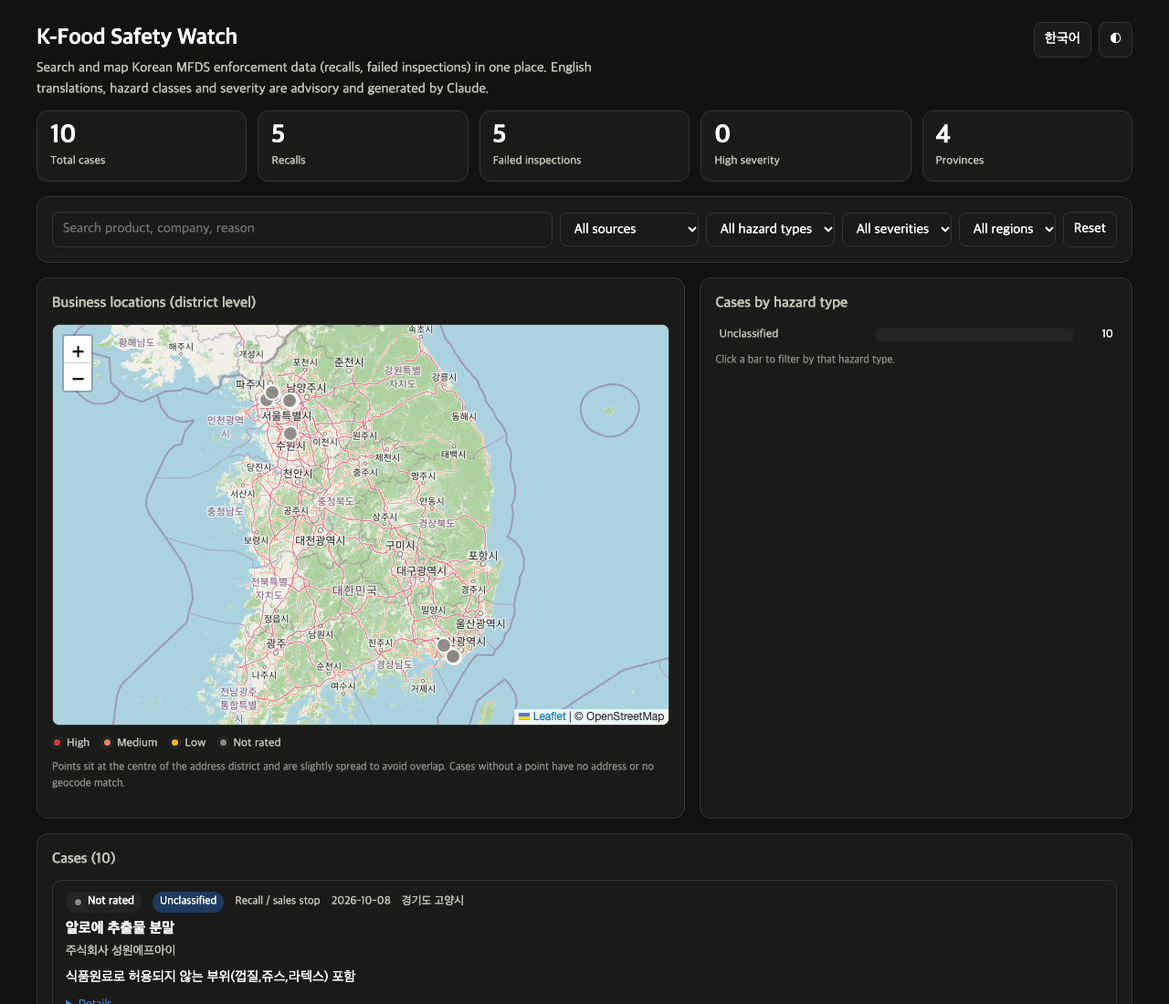
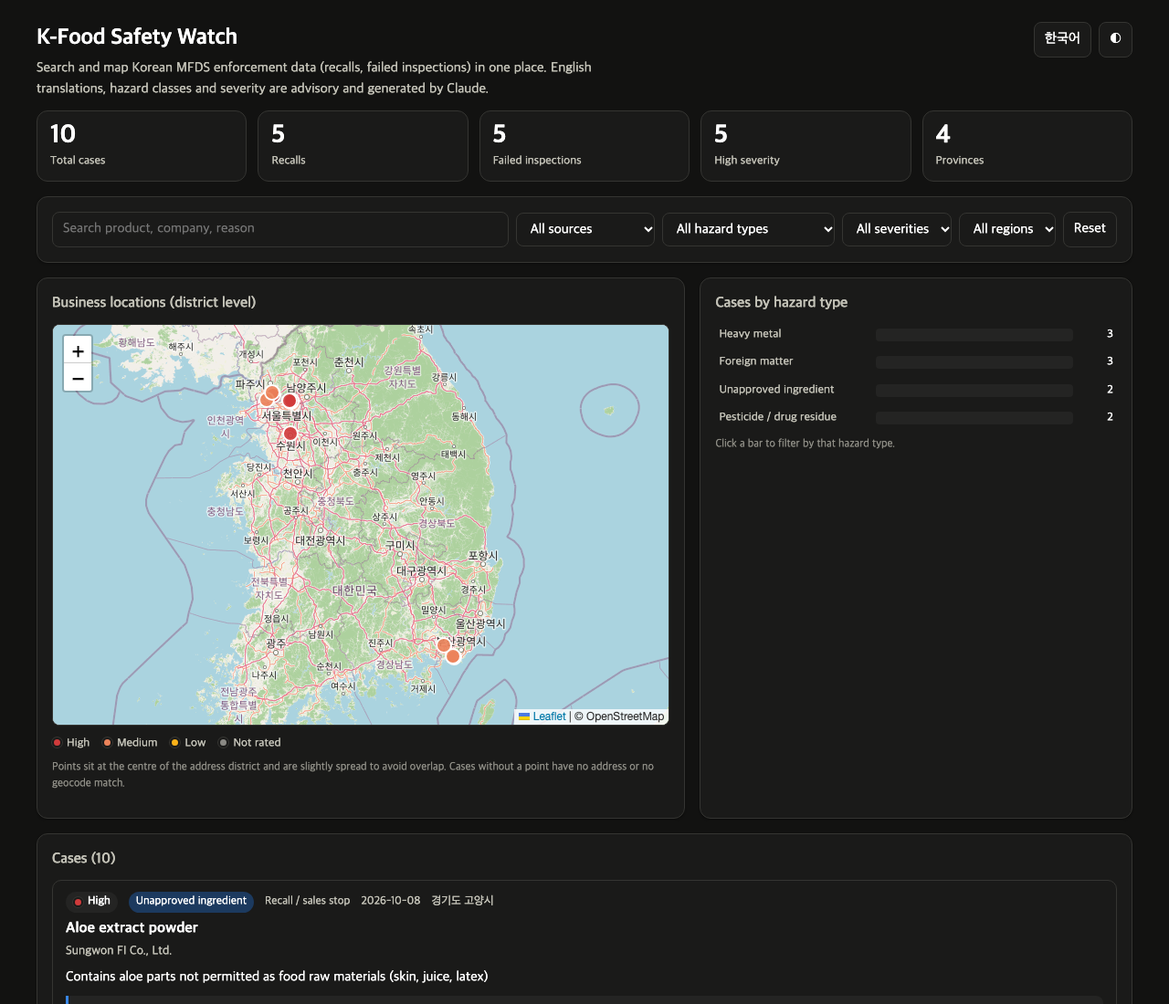
Add Claude enrichment results for the sample records
All ten sample records now carry English translations, hazard class,
severity with rationale, and bilingual summaries (claude-opus-5-5,
about 7k tokens). Screenshots refreshed. The .env loader now warns
when a line lacks the NAME=value form.

diff --git a/output/index.html b/output/index.html
@@ -147,7 +147,7 @@ footer a { color: var(--accent); }
 </main>
 <footer id="foot"></footer>
 
-<script>const DATA = {"generated": "2026-10-09T10:44+09:00", "services": {"I0490": {"kind": "recall", "name_ko": "회수·판매중지 정보", "name_en": "Recalls and sales suspensions"}, "I2620": {"kind": "inspection", "name_ko": "검사부적합(국내)", "name_en": "Domestic inspection non-conformities"}}, "meta": {"key_mode": "sample", "model": null, "enriched_count": 0}, "records": [{"id": "I0490-3000235627", "source": "recall", "service": "I0490", "product_ko": "알로에 추출물 분말", "company_ko": "주식회사 성원에프아이", "address_ko": "경기도 고양시 일산동구 문봉길 6-37 (문봉동) G동", "category_ko": "기타가공품", "date": "2026-10-08", "mfg_date": "2026-08-14", "expiry": "2031-08-13", "license_no": "20050039092", "report_no": "", "barcode": "", "unit": "-", "grade": "1등급", "method_ko": "", "image": "", "test_item_ko": "", "test_result": "", "standard": "", "agency_ko": "", "reason_ko": "식품원료로 허용되지 않는 부위(껍질,쥬스,라텍스) 포함", "sido": "경기도", "sigungu": "고양시", "lat": 37.6581862, "lon": 126.8319452, "product_en": "", "company_en": "", "reason_en": "", "summary_ko": "", "summary_en": "", "hazard": "unclassified", "severity": "unknown", "severity_why_en": "", "severity_why_ko": "", "enriched": false}, {"id": "I0490-3000235630", "source": "recall", "service": "I0490", "product_ko": "알로에 추출물분말", "company_ko": "주식회사 태성", "address_ko": "경기도 수원시 권선구 고색로66번길 29(고색동) 2층", "category_ko": "기타가공품", "date": "2026-10-08", "mfg_date": "2026-08-21", "expiry": "2031-08-20", "license_no": "20180007695", "report_no": "", "barcode": "", "unit": "-", "grade": "1등급", "method_ko": "", "image": "", "test_item_ko": "", "test_result": "", "standard": "", "agency_ko": "", "reason_ko": "식품원료로 허용되지 않는 부위(껍질,쥬스,라텍스) 포함", "sido": "경기도", "sigungu": "수원시", "lat": 37.2633325, "lon": 127.0287472, "product_en": "", "company_en": "", "reason_en": "", "summary_ko": "", "summary_en": "", "hazard": "unclassified", "severity": "unknown", "severity_why_en": "", "severity_why_ko": "", "enriched": false}, {"id": "I0490-3000235613", "source": "recall", "service": "I0490", "product_ko": "황새치 S/T 2호", "company_ko": "(주)오성씨푸드", "address_ko": "경기도 김포시 하성면 월하로589번길 52-10", "category_ko": "기타 수산물가공품", "date": "2026-10-08", "mfg_date": "2026-01-15", "expiry": "", "license_no": "20140362068", "report_no": "2014036206842", "barcode": "", "unit": "10kg", "grade": "2등급", "method_ko": "", "image": "http://coop.foodsafetykorea.go.kr/open/minfo_image.do?fSeq=2677458", "test_item_ko": "", "test_result": "", "standard": "", "agency_ko": "", "reason_ko": "중금속(메틸수은) 기준 규격 부적합", "sido": "경기도", "sigungu": "김포시", "lat": 37.6155683, "lon": 126.7157798, "product_en": "", "company_en": "", "reason_en": "", "summary_ko": "", "summary_en": "", "hazard": "unclassified", "severity": "unknown", "severity_why_en": "", "severity_why_ko": "", "enriched": false}, {"id": "I0490-3000235608", "source": "recall", "service": "I0490", "product_ko": "상어", "company_ko": "(주)와와식품", "address_ko": "부산광역시 사하구 장평로76번길 22(장림동)", "category_ko": "기타 수산물가공품", "date": "2026-10-08", "mfg_date": "2026-07-28", "expiry": "", "license_no": "20080144343", "report_no": "200801443439", "barcode": "", "unit": "20kg", "grade": "2등급", "method_ko": "", "image": "http://coop.foodsafetykorea.go.kr/open/minfo_image.do?fSeq=2677478", "test_item_ko": "", "test_result": "", "standard": "", "agency_ko": "", "reason_ko": "중금속(메틸수은) 기준 규격 부적합", "sido": "부산광역시", "sigungu": "사하구", "lat": 35.1041, "lon": 128.9751, "product_en": "", "company_en": "", "reason_en": "", "summary_ko": "", "summary_en": "", "hazard": "unclassified", "severity": "unknown", "severity_why_en": "", "severity_why_ko": "", "enriched": false}, {"id": "I0490-3000235598", "source": "recall", "service": "I0490", "product_ko": "상어", "company_ko": "(주)와와식품", "address_ko": "부산광역시 사하구 장평로76번길 22(장림동)", "category_ko": "기타 수산물가공품", "date": "2026-10-08", "mfg_date": "2026-07-15", "expiry": "", "license_no": "20080144343", "report_no": "200801443439", "barcode": "", "unit": "20kg", "grade": "2등급", "method_ko": "", "image": "http://coop.foodsafetykorea.go.kr/open/minfo_image.do?fSeq=2677479", "test_item_ko": "", "test_result": "", "standard": "", "agency_ko": "", "reason_ko": "중금속(메틸수은) 기준 규격 부적합", "sido": "부산광역시", "sigungu": "사하구", "lat": 35.1041, "lon": 128.9751, "product_en": "", "company_en": "", "reason_en": "", "summary_ko": "", "summary_en": "", "hazard": "unclassified", "severity": "unknown", "severity_why_en": "", "severity_why_ko": "", "enriched": false}, {"id": "I2620-3000224642", "source": "inspection", "service": "I2620", "product_ko": "동초", "company_ko": "박*경", "address_ko": "경상남도 김해시", "category_ko": "유채", "date": "2026-04-13", "mfg_date": "", "expiry": "", "license_no": "", "report_no": "", "barcode": "", "unit": "박스", "grade": "", "method_ko": "", "image": "", "test_item_ko": "메타벤즈티아주론", "test_result": "0.06 mg/kg", "standard": "0.01 mg/kg", "agency_ko": "부산광역시 보건환경연구원", "reason_ko": "메타벤즈티아주론: 0.06 mg/kg (기준 0.01 mg/kg)", "sido": "경상남도", "sigungu": "김해시", "lat": 35.2279109, "lon": 128.8895378, "product_en": "", "company_en": "", "reason_en": "", "summary_ko": "", "summary_en": "", "hazard": "unclassified", "severity": "unknown", "severity_why_en": "", "severity_why_ko": "", "enriched": false}, {"id": "I2620-3000224675", "source": "inspection", "service": "I2620", "product_ko": "열무", "company_ko": "손*철", "address_ko": "경기 고양시", "category_ko": "무(잎)", "date": "2026-04-13", "mfg_date": "", "expiry": "", "license_no": "", "report_no": "", "barcode": "", "unit": "", "grade": "", "method_ko": "", "image": "", "test_item_ko": "터부포스", "test_result": "0.22 mg/kg", "standard": "0.05 mg/kg 이하", "agency_ko": "", "reason_ko": "터부포스: 0.22 mg/kg (기준 0.05 mg/kg 이하)", "sido": "경기도", "sigungu": "고양시", "lat": 37.6581862, "lon": 126.8319452, "product_en": "", "company_en": "", "reason_en": "", "summary_ko": "", "summary_en": "", "hazard": "unclassified", "severity": "unknown", "severity_why_en": "", "severity_why_ko": "", "enriched": false}, {"id": "I2620-3000223482", "source": "inspection", "service": "I2620", "product_ko": "노니분말", "company_ko": "주식회사 생생드림", "address_ko": "서울특별시 동대문구", "category_ko": "기타가공품", "date": "2026-03-23", "mfg_date": "", "expiry": "2028-02-26", "license_no": "20140042362", "report_no": "20150042798136", "barcode": "", "unit": "300g", "grade": "", "method_ko": "", "image": "", "test_item_ko": "금속성이물", "test_result": "39.84 mg/kg", "standard": "10.0미만 mg/kg", "agency_ko": "인천광역시 보건환경연구원 식약연구부 식품분석과", "reason_ko": "금속성이물: 39.84 mg/kg (기준 10.0미만 mg/kg)", "sido": "서울특별시", "sigungu": "동대문구", "lat": 37.5741982, "lon": 127.0395092, "product_en": "", "company_en": "", "reason_en": "", "summary_ko": "", "summary_en": "", "hazard": "unclassified", "severity": "unknown", "severity_why_en": "", "severity_why_ko": "", "enriched": false}, {"id": "I2620-3000223485", "source": "inspection", "service": "I2620", "product_ko": "핑거루트분말", "company_ko": "주식회사 생생드림", "address_ko": "서울특별시 동대문구", "category_ko": "기타가공품", "date": "2026-03-23", "mfg_date": "", "expiry": "2028-02-26", "license_no": "20180042767", "report_no": "201500427982", "barcode": "", "unit": "", "grade": "", "method_ko": "", "image": "", "test_item_ko": "금속성이물", "test_result": "100.59 mg/kg", "standard": "10.0미만 mg/kg", "agency_ko": "인천광역시 보건환경연구원 식약연구부 식품분석과", "reason_ko": "금속성이물: 100.59 mg/kg (기준 10.0미만 mg/kg)", "sido": "서울특별시", "sigungu": "동대문구", "lat": 37.5741982, "lon": 127.0395092, "product_en": "", "company_en": "", "reason_en": "", "summary_ko": "", "summary_en": "", "hazard": "unclassified", "severity": "unknown", "severity_why_en": "", "severity_why_ko": "", "enriched": false}, {"id": "I2620-3000223496", "source": "inspection", "service": "I2620", "product_ko": "강황분말", "company_ko": "주식회사 생생드림", "address_ko": "서울특별시 동대문구", "category_ko": "고형차", "date": "2026-03-23", "mfg_date": "", "expiry": "2028-02-26", "license_no": "20180042767", "report_no": "2015004279818", "barcode": "", "unit": "1kg", "grade": "", "method_ko": "", "image": "", "test_item_ko": "금속성이물", "test_result": "70.19  mg/kg", "standard": "10.0미만 mg/kg", "agency_ko": "인천광역시 보건환경연구원 식약연구부 식품분석과", "reason_ko": "금속성이물: 70.19  mg/kg (기준 10.0미만 mg/kg)", "sido": "서울특별시", "sigungu": "동대문구", "lat": 37.5741982, "lon": 127.0395092, "product_en": "", "company_en": "", "reason_en": "", "summary_ko": "", "summary_en": "", "hazard": "unclassified", "severity": "unknown", "severity_why_en": "", "severity_why_ko": "", "enriched": false}]};</script>
+<script>const DATA = {"generated": "2026-10-09T10:51+09:00", "services": {"I0490": {"kind": "recall", "name_ko": "회수·판매중지 정보", "name_en": "Recalls and sales suspensions"}, "I2620": {"kind": "inspection", "name_ko": "검사부적합(국내)", "name_en": "Domestic inspection non-conformities"}}, "meta": {"key_mode": "sample", "model": "claude-opus-5-5", "enriched_count": 10}, "records": [{"id": "I0490-3000235627", "source": "recall", "service": "I0490", "product_ko": "알로에 추출물 분말", "company_ko": "주식회사 성원에프아이", "address_ko": "경기도 고양시 일산동구 문봉길 6-37 (문봉동) G동", "category_ko": "기타가공품", "date": "2026-10-08", "mfg_date": "2026-08-14", "expiry": "2031-08-13", "license_no": "20050039092", "report_no": "", "barcode": "", "unit": "-", "grade": "1등급", "method_ko": "", "image": "", "test_item_ko": "", "test_result": "", "standard": "", "agency_ko": "", "reason_ko": "식품원료로 허용되지 않는 부위(껍질,쥬스,라텍스) 포함", "sido": "경기도", "sigungu": "고양시", "lat": 37.6581862, "lon": 126.8319452, "product_en": "Aloe extract powder", "company_en": "Sungwon FI Co., Ltd.", "reason_en": "Contains aloe parts not permitted as food raw materials (skin, juice, latex)", "summary_ko": "주식회사 성원에프아이의 '알로에 추출물 분말'에 식품원료로 허용되지 않는 알로에 껍질·쥬스·라텍스 부위가 포함되어 회수됩니다.", "summary_en": "Sungwon FI's aloe extract powder is being recalled because it contains aloe skin, juice and latex, which are not permitted as food ingredients.", "hazard": "unapproved_ingredient", "severity": "high", "severity_why_en": "Grade 1 recall; aloe latex contains laxative anthraquinones and is not allowed in food.", "severity_why_ko": "1등급 회수이며, 알로에 라텍스에는 설사를 유발하는 안트라퀴논류가 있어 식품 사용이 금지된 부위입니다.", "enriched": true}, {"id": "I0490-3000235630", "source": "recall", "service": "I0490", "product_ko": "알로에 추출물분말", "company_ko": "주식회사 태성", "address_ko": "경기도 수원시 권선구 고색로66번길 29(고색동) 2층", "category_ko": "기타가공품", "date": "2026-10-08", "mfg_date": "2026-08-21", "expiry": "2031-08-20", "license_no": "20180007695", "report_no": "", "barcode": "", "unit": "-", "grade": "1등급", "method_ko": "", "image": "", "test_item_ko": "", "test_result": "", "standard": "", "agency_ko": "", "reason_ko": "식품원료로 허용되지 않는 부위(껍질,쥬스,라텍스) 포함", "sido": "경기도", "sigungu": "수원시", "lat": 37.2633325, "lon": 127.0287472, "product_en": "Aloe extract powder", "company_en": "Taesung Co., Ltd.", "reason_en": "Contains aloe parts not permitted as food raw materials (skin, juice, latex)", "summary_ko": "주식회사 태성의 '알로에 추출물분말'에 식품원료로 허용되지 않는 알로에 껍질·쥬스·라텍스 부위가 포함되어 회수됩니다.", "summary_en": "Taesung's aloe extract powder is being recalled because it contains aloe skin, juice and latex, which are not permitted as food ingredients.", "hazard": "unapproved_ingredient", "severity": "high", "severity_why_en": "Grade 1 recall; aloe latex contains laxative anthraquinones and is not allowed in food.", "severity_why_ko": "1등급 회수이며, 알로에 라텍스에는 설사를 유발하는 안트라퀴논류가 있어 식품 사용이 금지된 부위입니다.", "enriched": true}, {"id": "I0490-3000235613", "source": "recall", "service": "I0490", "product_ko": "황새치 S/T 2호", "company_ko": "(주)오성씨푸드", "address_ko": "경기도 김포시 하성면 월하로589번길 52-10", "category_ko": "기타 수산물가공품", "date": "2026-10-08", "mfg_date": "2026-01-15", "expiry": "", "license_no": "20140362068", "report_no": "2014036206842", "barcode": "", "unit": "10kg", "grade": "2등급", "method_ko": "", "image": "http://coop.foodsafetykorea.go.kr/open/minfo_image.do?fSeq=2677458", "test_item_ko": "", "test_result": "", "standard": "", "agency_ko": "", "reason_ko": "중금속(메틸수은) 기준 규격 부적합", "sido": "경기도", "sigungu": "김포시", "lat": 37.6155683, "lon": 126.7157798, "product_en": "Swordfish S/T No. 2", "company_en": "Osung Seafood Co., Ltd.", "reason_en": "Failed the heavy metal (methylmercury) standard", "summary_ko": "(주)오성씨푸드의 '황새치 S/T 2호'가 메틸수은 기준을 초과하여 회수됩니다.", "summary_en": "Osung Seafood's Swordfish S/T No. 2 is being recalled because its methylmercury level exceeds the legal limit.", "hazard": "heavy_metal", "severity": "medium", "severity_why_en": "Grade 2 recall; the measured methylmercury level is not stated, so the exceedance is treated as moderate.", "severity_why_ko": "2등급 회수이며, 메틸수은 검출량이 공개되지 않아 중간 수준의 초과로 판단했습니다.", "enriched": true}, {"id": "I0490-3000235608", "source": "recall", "service": "I0490", "product_ko": "상어", "company_ko": "(주)와와식품", "address_ko": "부산광역시 사하구 장평로76번길 22(장림동)", "category_ko": "기타 수산물가공품", "date": "2026-10-08", "mfg_date": "2026-07-28", "expiry": "", "license_no": "20080144343", "report_no": "200801443439", "barcode": "", "unit": "20kg", "grade": "2등급", "method_ko": "", "image": "http://coop.foodsafetykorea.go.kr/open/minfo_image.do?fSeq=2677478", "test_item_ko": "", "test_result": "", "standard": "", "agency_ko": "", "reason_ko": "중금속(메틸수은) 기준 규격 부적합", "sido": "부산광역시", "sigungu": "사하구", "lat": 35.1041, "lon": 128.9751, "product_en": "Shark", "company_en": "Wawa Foods Co., Ltd.", "reason_en": "Failed the heavy metal (methylmercury) standard", "summary_ko": "(주)와와식품의 '상어'가 메틸수은 기준을 초과하여 회수됩니다.", "summary_en": "Wawa Foods' shark meat is being recalled because its methylmercury level exceeds the legal limit.", "hazard": "heavy_metal", "severity": "medium", "severity_why_en": "Grade 2 recall; the measured methylmercury level is not stated, so the exceedance is treated as moderate.", "severity_why_ko": "2등급 회수이며, 메틸수은 검출량이 공개되지 않아 중간 수준의 초과로 판단했습니다.", "enriched": true}, {"id": "I0490-3000235598", "source": "recall", "service": "I0490", "product_ko": "상어", "company_ko": "(주)와와식품", "address_ko": "부산광역시 사하구 장평로76번길 22(장림동)", "category_ko": "기타 수산물가공품", "date": "2026-10-08", "mfg_date": "2026-07-15", "expiry": "", "license_no": "20080144343", "report_no": "200801443439", "barcode": "", "unit": "20kg", "grade": "2등급", "method_ko": "", "image": "http://coop.foodsafetykorea.go.kr/open/minfo_image.do?fSeq=2677479", "test_item_ko": "", "test_result": "", "standard": "", "agency_ko": "", "reason_ko": "중금속(메틸수은) 기준 규격 부적합", "sido": "부산광역시", "sigungu": "사하구", "lat": 35.1041, "lon": 128.9751, "product_en": "Shark", "company_en": "Wawa Foods Co., Ltd.", "reason_en": "Failed the heavy metal (methylmercury) standard", "summary_ko": "(주)와와식품의 '상어'가 메틸수은 기준을 초과하여 회수됩니다.", "summary_en": "Wawa Foods' shark meat is being recalled because its methylmercury level exceeds the legal limit.", "hazard": "heavy_metal", "severity": "medium", "severity_why_en": "Grade 2 recall; the measured methylmercury level is not stated, so the exceedance is treated as moderate.", "severity_why_ko": "2등급 회수이며, 메틸수은 검출량이 공개되지 않아 중간 수준의 초과로 판단했습니다.", "enriched": true}, {"id": "I2620-3000224642", "source": "inspection", "service": "I2620", "product_ko": "동초", "company_ko": "박*경", "address_ko": "경상남도 김해시", "category_ko": "유채", "date": "2026-04-13", "mfg_date": "", "expiry": "", "license_no": "", "report_no": "", "barcode": "", "unit": "박스", "grade": "", "method_ko": "", "image": "", "test_item_ko": "메타벤즈티아주론", "test_result": "0.06 mg/kg", "standard": "0.01 mg/kg", "agency_ko": "부산광역시 보건환경연구원", "reason_ko": "메타벤즈티아주론: 0.06 mg/kg (기준 0.01 mg/kg)", "sido": "경상남도", "sigungu": "김해시", "lat": 35.2279109, "lon": 128.8895378, "product_en": "Dongcho (winter rape greens)", "company_en": "Park *-kyung (individual producer)", "reason_en": "Methabenzthiazuron: 0.06 mg/kg (limit: 0.01 mg/kg)", "summary_ko": "박*경 씨가 생산한 '동초'에서 농약 메타벤즈티아주론이 0.06 mg/kg 검출되어 기준(0.01 mg/kg)을 6배 초과했습니다.", "summary_en": "Dongcho (winter rape greens) from producer Park *-kyung contained the herbicide methabenzthiazuron at 0.06 mg/kg, six times the 0.01 mg/kg limit.", "hazard": "chemical_residue", "severity": "medium", "severity_why_en": "Pesticide residue exceeding the limit (6-fold) is a residue violation; the absolute amount is small, so medium.", "severity_why_ko": "농약 잔류허용기준을 6배 초과한 잔류농약 위반이나 절대 검출량이 적어 중간 위험도로 판단했습니다.", "enriched": true}, {"id": "I2620-3000224675", "source": "inspection", "service": "I2620", "product_ko": "열무", "company_ko": "손*철", "address_ko": "경기 고양시", "category_ko": "무(잎)", "date": "2026-04-13", "mfg_date": "", "expiry": "", "license_no": "", "report_no": "", "barcode": "", "unit": "", "grade": "", "method_ko": "", "image": "", "test_item_ko": "터부포스", "test_result": "0.22 mg/kg", "standard": "0.05 mg/kg 이하", "agency_ko": "", "reason_ko": "터부포스: 0.22 mg/kg (기준 0.05 mg/kg 이하)", "sido": "경기도", "sigungu": "고양시", "lat": 37.6581862, "lon": 126.8319452, "product_en": "Yeolmu (young radish greens)", "company_en": "Son *-cheol (individual producer)", "reason_en": "Terbufos: 0.22 mg/kg (limit: 0.05 mg/kg or less)", "summary_ko": "손*철 씨가 생산한 '열무'에서 농약 터부포스가 0.22 mg/kg 검출되어 기준(0.05 mg/kg 이하)을 약 4.4배 초과했습니다.", "summary_en": "Young radish greens (yeolmu) from producer Son *-cheol contained the insecticide terbufos at 0.22 mg/kg, about 4.4 times the 0.05 mg/kg limit.", "hazard": "chemical_residue", "severity": "medium", "severity_why_en": "Pesticide residue over the limit (about 4.4-fold); terbufos is a highly toxic organophosphate, but this level is a residue exceedance rather than acute poisoning risk, so medium.", "severity_why_ko": "잔류허용기준을 약 4.4배 초과했으며, 터부포스는 독성이 강한 유기인계 농약이지만 급성 중독 수준이 아닌 잔류 기준 초과로 보아 중간 위험도로 판단했습니다.", "enriched": true}, {"id": "I2620-3000223482", "source": "inspection", "service": "I2620", "product_ko": "노니분말", "company_ko": "주식회사 생생드림", "address_ko": "서울특별시 동대문구", "category_ko": "기타가공품", "date": "2026-03-23", "mfg_date": "", "expiry": "2028-02-26", "license_no": "20140042362", "report_no": "20150042798136", "barcode": "", "unit": "300g", "grade": "", "method_ko": "", "image": "", "test_item_ko": "금속성이물", "test_result": "39.84 mg/kg", "standard": "10.0미만 mg/kg", "agency_ko": "인천광역시 보건환경연구원 식약연구부 식품분석과", "reason_ko": "금속성이물: 39.84 mg/kg (기준 10.0미만 mg/kg)", "sido": "서울특별시", "sigungu": "동대문구", "lat": 37.5741982, "lon": 127.0395092, "product_en": "Noni powder", "company_en": "Saengsaeng Dream Co., Ltd.", "reason_en": "Metallic foreign matter: 39.84 mg/kg (limit: less than 10.0 mg/kg)", "summary_ko": "주식회사 생생드림의 '노니분말'에서 금속성이물이 39.84 mg/kg 검출되어 기준(10.0 mg/kg 미만)을 약 4배 초과했습니다.", "summary_en": "Saengsaeng Dream's noni powder contained 39.84 mg/kg of metallic foreign matter, about four times the limit of under 10.0 mg/kg.", "hazard": "foreign_matter", "severity": "high", "severity_why_en": "Metal is hard foreign matter; particle size is not stated, so the more cautious severity is chosen for a roughly 4-fold exceedance.", "severity_why_ko": "금속은 단단한 이물이며 입자 크기가 명시되지 않아, 약 4배 초과에 대해 보다 신중하게 높은 위험도로 판단했습니다.", "enriched": true}, {"id": "I2620-3000223485", "source": "inspection", "service": "I2620", "product_ko": "핑거루트분말", "company_ko": "주식회사 생생드림", "address_ko": "서울특별시 동대문구", "category_ko": "기타가공품", "date": "2026-03-23", "mfg_date": "", "expiry": "2028-02-26", "license_no": "20180042767", "report_no": "201500427982", "barcode": "", "unit": "", "grade": "", "method_ko": "", "image": "", "test_item_ko": "금속성이물", "test_result": "100.59 mg/kg", "standard": "10.0미만 mg/kg", "agency_ko": "인천광역시 보건환경연구원 식약연구부 식품분석과", "reason_ko": "금속성이물: 100.59 mg/kg (기준 10.0미만 mg/kg)", "sido": "서울특별시", "sigungu": "동대문구", "lat": 37.5741982, "lon": 127.0395092, "product_en": "Fingerroot powder", "company_en": "Saengsaeng Dream Co., Ltd.", "reason_en": "Metallic foreign matter: 100.59 mg/kg (limit: less than 10.0 mg/kg)", "summary_ko": "주식회사 생생드림의 '핑거루트분말'에서 금속성이물이 100.59 mg/kg 검출되어 기준(10.0 mg/kg 미만)을 약 10배 초과했습니다.", "summary_en": "Saengsaeng Dream's fingerroot powder contained 100.59 mg/kg of metallic foreign matter, about ten times the limit of under 10.0 mg/kg.", "hazard": "foreign_matter", "severity": "high", "severity_why_en": "Metal is hard foreign matter and the level is about 10 times the limit; particle size is not stated, so the cautious severity is chosen.", "severity_why_ko": "금속은 단단한 이물이며 기준의 약 10배가 검출되었고, 입자 크기가 명시되지 않아 신중하게 높은 위험도로 판단했습니다.", "enriched": true}, {"id": "I2620-3000223496", "source": "inspection", "service": "I2620", "product_ko": "강황분말", "company_ko": "주식회사 생생드림", "address_ko": "서울특별시 동대문구", "category_ko": "고형차", "date": "2026-03-23", "mfg_date": "", "expiry": "2028-02-26", "license_no": "20180042767", "report_no": "2015004279818", "barcode": "", "unit": "1kg", "grade": "", "method_ko": "", "image": "", "test_item_ko": "금속성이물", "test_result": "70.19  mg/kg", "standard": "10.0미만 mg/kg", "agency_ko": "인천광역시 보건환경연구원 식약연구부 식품분석과", "reason_ko": "금속성이물: 70.19  mg/kg (기준 10.0미만 mg/kg)", "sido": "서울특별시", "sigungu": "동대문구", "lat": 37.5741982, "lon": 127.0395092, "product_en": "Turmeric powder", "company_en": "Saengsaeng Dream Co., Ltd.", "reason_en": "Metallic foreign matter: 70.19 mg/kg (limit: less than 10.0 mg/kg)", "summary_ko": "주식회사 생생드림의 '강황분말'에서 금속성이물이 70.19 mg/kg 검출되어 기준(10.0 mg/kg 미만)을 약 7배 초과했습니다.", "summary_en": "Saengsaeng Dream's turmeric powder contained 70.19 mg/kg of metallic foreign matter, about seven times the limit of under 10.0 mg/kg.", "hazard": "foreign_matter", "severity": "high", "severity_why_en": "Metal is hard foreign matter and the level is about 7 times the limit; particle size is not stated, so the cautious severity is chosen.", "severity_why_ko": "금속은 단단한 이물이며 기준의 약 7배가 검출되었고, 입자 크기가 명시되지 않아 신중하게 높은 위험도로 판단했습니다.", "enriched": true}]};</script>
 <script>
 (function () {
   'use strict';

diff --git a/src/kfs/cli.py b/src/kfs/cli.py
@@ -31,7 +31,11 @@ def load_dotenv(path=ROOT / ".env"):
         return
     for line in path.read_text(encoding="utf-8").splitlines():
         line = line.strip()
-        if not line or line.startswith("#") or "=" not in line:
+        if not line or line.startswith("#"):
+            continue
+        if "=" not in line:
+            print(f"warning: {path.name} line has no NAME=value form; "
+                  f"expected e.g. ANTHROPIC_API_KEY=sk-ant-...")
             continue
         key, value = line.split("=", 1)
         os.environ.setdefault(key.strip(), value.strip())
